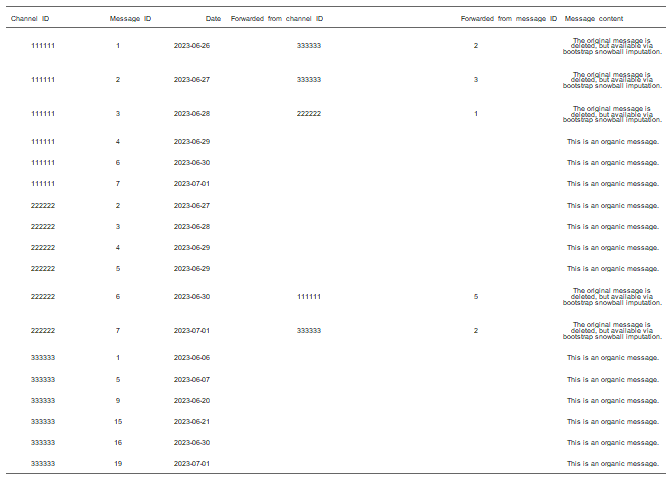
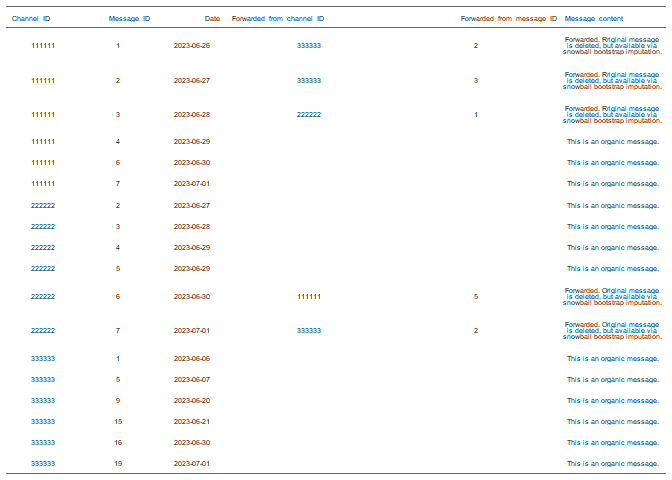
readme new

diff --git a/README.md b/README.md
@@ -39,8 +39,8 @@ telegram_data <- data.frame(
                                c(rep(NA, 4), "111111", "333333"), rep(NA, 6)),
  Forwarded_from_message_ID = c(2, 3, 1, rep(NA, 7), 5, 2, rep(NA, 6)),
  Message_content = c(
-   c(rep("The original message is deleted, but available via bootstrap snowball imputation.", 3), rep("This is an organic message.", 3)),
-   c(rep("This is an organic message.", 4), rep("The original message is deleted, but available via bootstrap snowball imputation.", 2)),
+   c(rep("Forwarded. Rriginal message is deleted, but available via snowball bootstrap imputation.", 3), rep("This is an organic message.", 3)),
+   c(rep("This is an organic message.", 4), rep("Forwarded. Original message is deleted, but available via snowball bootstrap imputation.", 2)),
    rep("This is an organic message.", 6)
  )
  )
